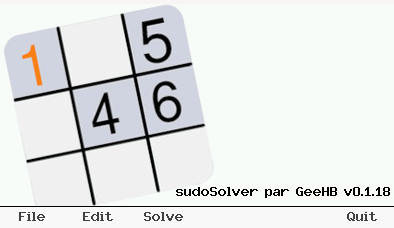
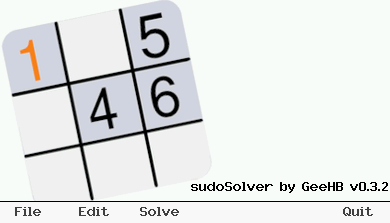
Mise à jour de README.md

Changed region(s): [[0.0, 0.0, 1.0, 0.9955], [0.4, 0.8072, 1.0, 0.861]]

diff --git a/src/sudoSolver.cpp b/src/sudoSolver.cpp
@@ -175,9 +175,9 @@ void sudoSolver::run(void)
 
                     // Activate or deactivate screen capture
                     case KEY_CODE_CAPTURE:
-                        if (MOD_SHIFT == (action.modifier & MOD_SHIFT)){
+                        //if (MOD_SHIFT == (action.modifier & MOD_SHIFT)){
                             _onCapture();
-                        }
+                        //}
                         break;
 
                     default:

diff --git a/src/sudoku.cpp b/src/sudoku.cpp
@@ -477,6 +477,7 @@ bool sudoku::edit(uint8_t mode){
             reDraw = false;
         }
 
+        /*
         if (modified){
             dprint_opt(CASIO_WIDTH - 100, CASIO_HEIGHT - 12 - MENUBAR_DEF_HEIGHT,
                 C_BLACK, SCREEN_BK_COLOUR,
@@ -484,6 +485,7 @@ bool sudoku::edit(uint8_t mode){
                 " Elements : %d     ", elements);
             dupdate();
         }
+        */
 
     } // while (cont)
 

diff --git a/README.md b/README.md
@@ -8,18 +8,18 @@
 L'application est organisée autour d'une barre de menu horizontale; la navigation s'effectuant en appuyant sur les touches de contrôle situées "sous" les items.
 * *File* permet d'accéder au sous-menu de gestion des fichiers
 * *Edit* permet de modifier une grille
-* *Solve* donne accès aufonction de recherche des solutions
+* *Solve* donne accès aux fonctions de recherche automatisée des solutions et permet aussi à l'utilisateur de chercher par lui même une solution.
 * *Quit* sort de l'application
 
 ### Informations de version
 
 | Dépôt &nbsp;| https://gitea.planet-casio.com/Jhb/sudoSolv |
 |----- |-------------------------------------|
-| **Date** | 25 janvier 2024 |
-| **Version stable** | **0\.2.1** - branche `master` |
+| **Date** | 9 février 2024 |
+| **Version stable** | **0\.3.2** - branche `master` |
 
 ### Gestion des fichiers
-Le menu *File* permet de gérer les grilles de sodoku : création d'une nouvelle grillen navigation dans le dossier, sauvegarde, suppression.
+Le menu *File* permet de gérer les grilles de sodoku : création d'une nouvelle grille, navigation dans le dossier, sauvegarde, suppression.
 
 Les grilles sont toutes enregistrées et chargées à partir du dossier `fls0\grids`. Si le dossier n'existe pas, il sera crée au lancement de l'application.
 
@@ -41,13 +41,38 @@ Le menu propose les options suivantes:
 ### Modification d'une grille
 Le menu *Edit* permet de modifier une grille existante ou de générer une nouvelle grille à partir d'une matrice vierge.
 
-Les touches 
-Il suffit d'appueyer sur une touche pour mettre la valeur à la position cournate; si cela est possible en l'étât.
+Les touches de navigation déplacent le curseur dans la grille.
+Et il suffit d'appuyer sur une des touches comprises entre '1' et '9' pour mettre la valeur associée à la position courante; si cela est possible en l'étât.
+La touche '0' supprime la valeur en place.
 
 ![Edit](assets/edit.png)
 
 ### Résolution
-Enfin le menu *Solve* donne accès aux fonctions de recherche des valeurs évidentes (obvious values) ou d'une solution complête.
+Le menu *Solve* permet, au choix, de rechercher par soi même une solution ou de demander au programme d'en trouver une. 
+
+#### Résolution manuelle
+L'item *Manual* permet à l'utilisateur de chercher une solution par lui même. Dans ce cas les éléments "posés" sur la grille sont ajoutés avec la couleur noire.
+Le système offre néanmoins la possiblité de poser des hypothèses. Cela passe par le choix d'une couleur. Dès lors qu'une couleur est choisie, tous les éléments liés sont affichés avec une pastille colorée. Cela permet d'un coup d'oeil de voir tous les éléments liés à une hypothèse. 
+La couleur utilisée est aussi reprise dans l'affichage du menu.
+
+Par exemple, avec le choix de la couleur verte :
+
+![Hypothèse](assets/hypothese.png)
+
+
+Le sous-menu offre les possiblités suivantes :
+* *Col.* : Choix d'une hypothèse, marquée par une couleur. 
+En choisissant cette option, un sous menu-menu est affiché (encore un ...) permettant de choisir une couleur en cochant la case associée. Lorsque toutes les cases sont décochées (position par défaut), aucune hypothèse n'est en place.
+
+* *Accept* : Tous les éléments d'une hypothèse (ie. tous les éléments marqués par la couleur) sont intégrés à la grille et donc se voient retirer leur couleur,
+
+* 'Reject' : Tous les éléments d'une hypothèse sont rejetés. Ces éléments sont donc retirés de la grille.
+
+* *End* permet de sortir du mode résolution manuelle et de retourner au msous-menu *Solve*.
+
+![Couelurs](assets/chooseCol.png)
+
+#### Résolution automatique
 
 *Obvious* recherche les valeurs évidentes pour la grille. Il s'agit des valeurs que l'on peut mettre sans effectuer aucune hypothèse.
 
